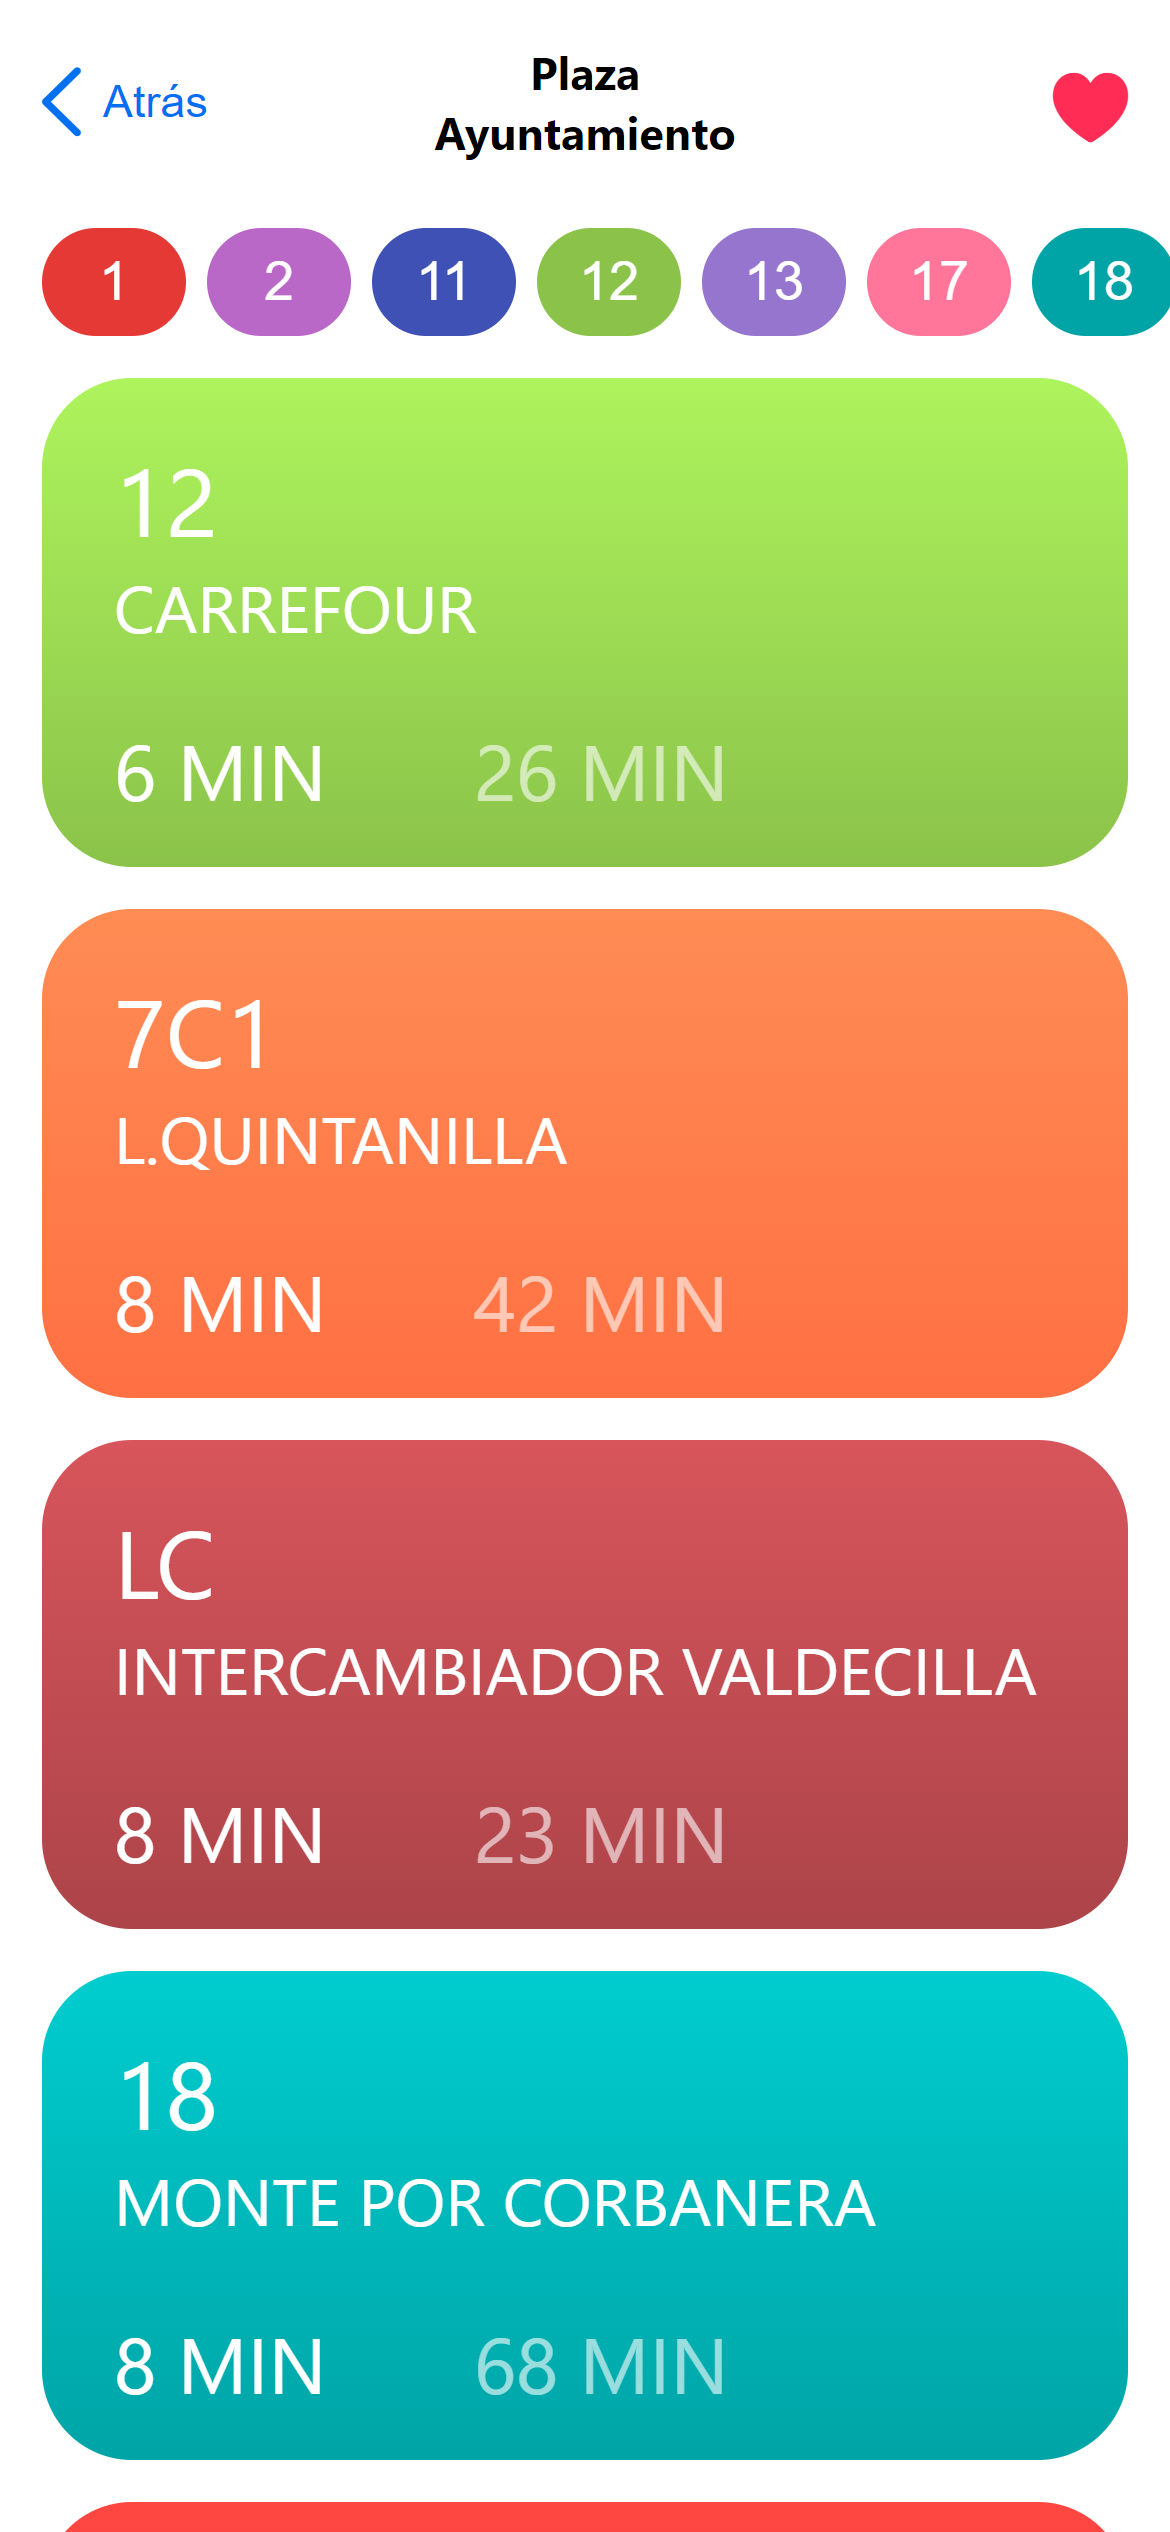
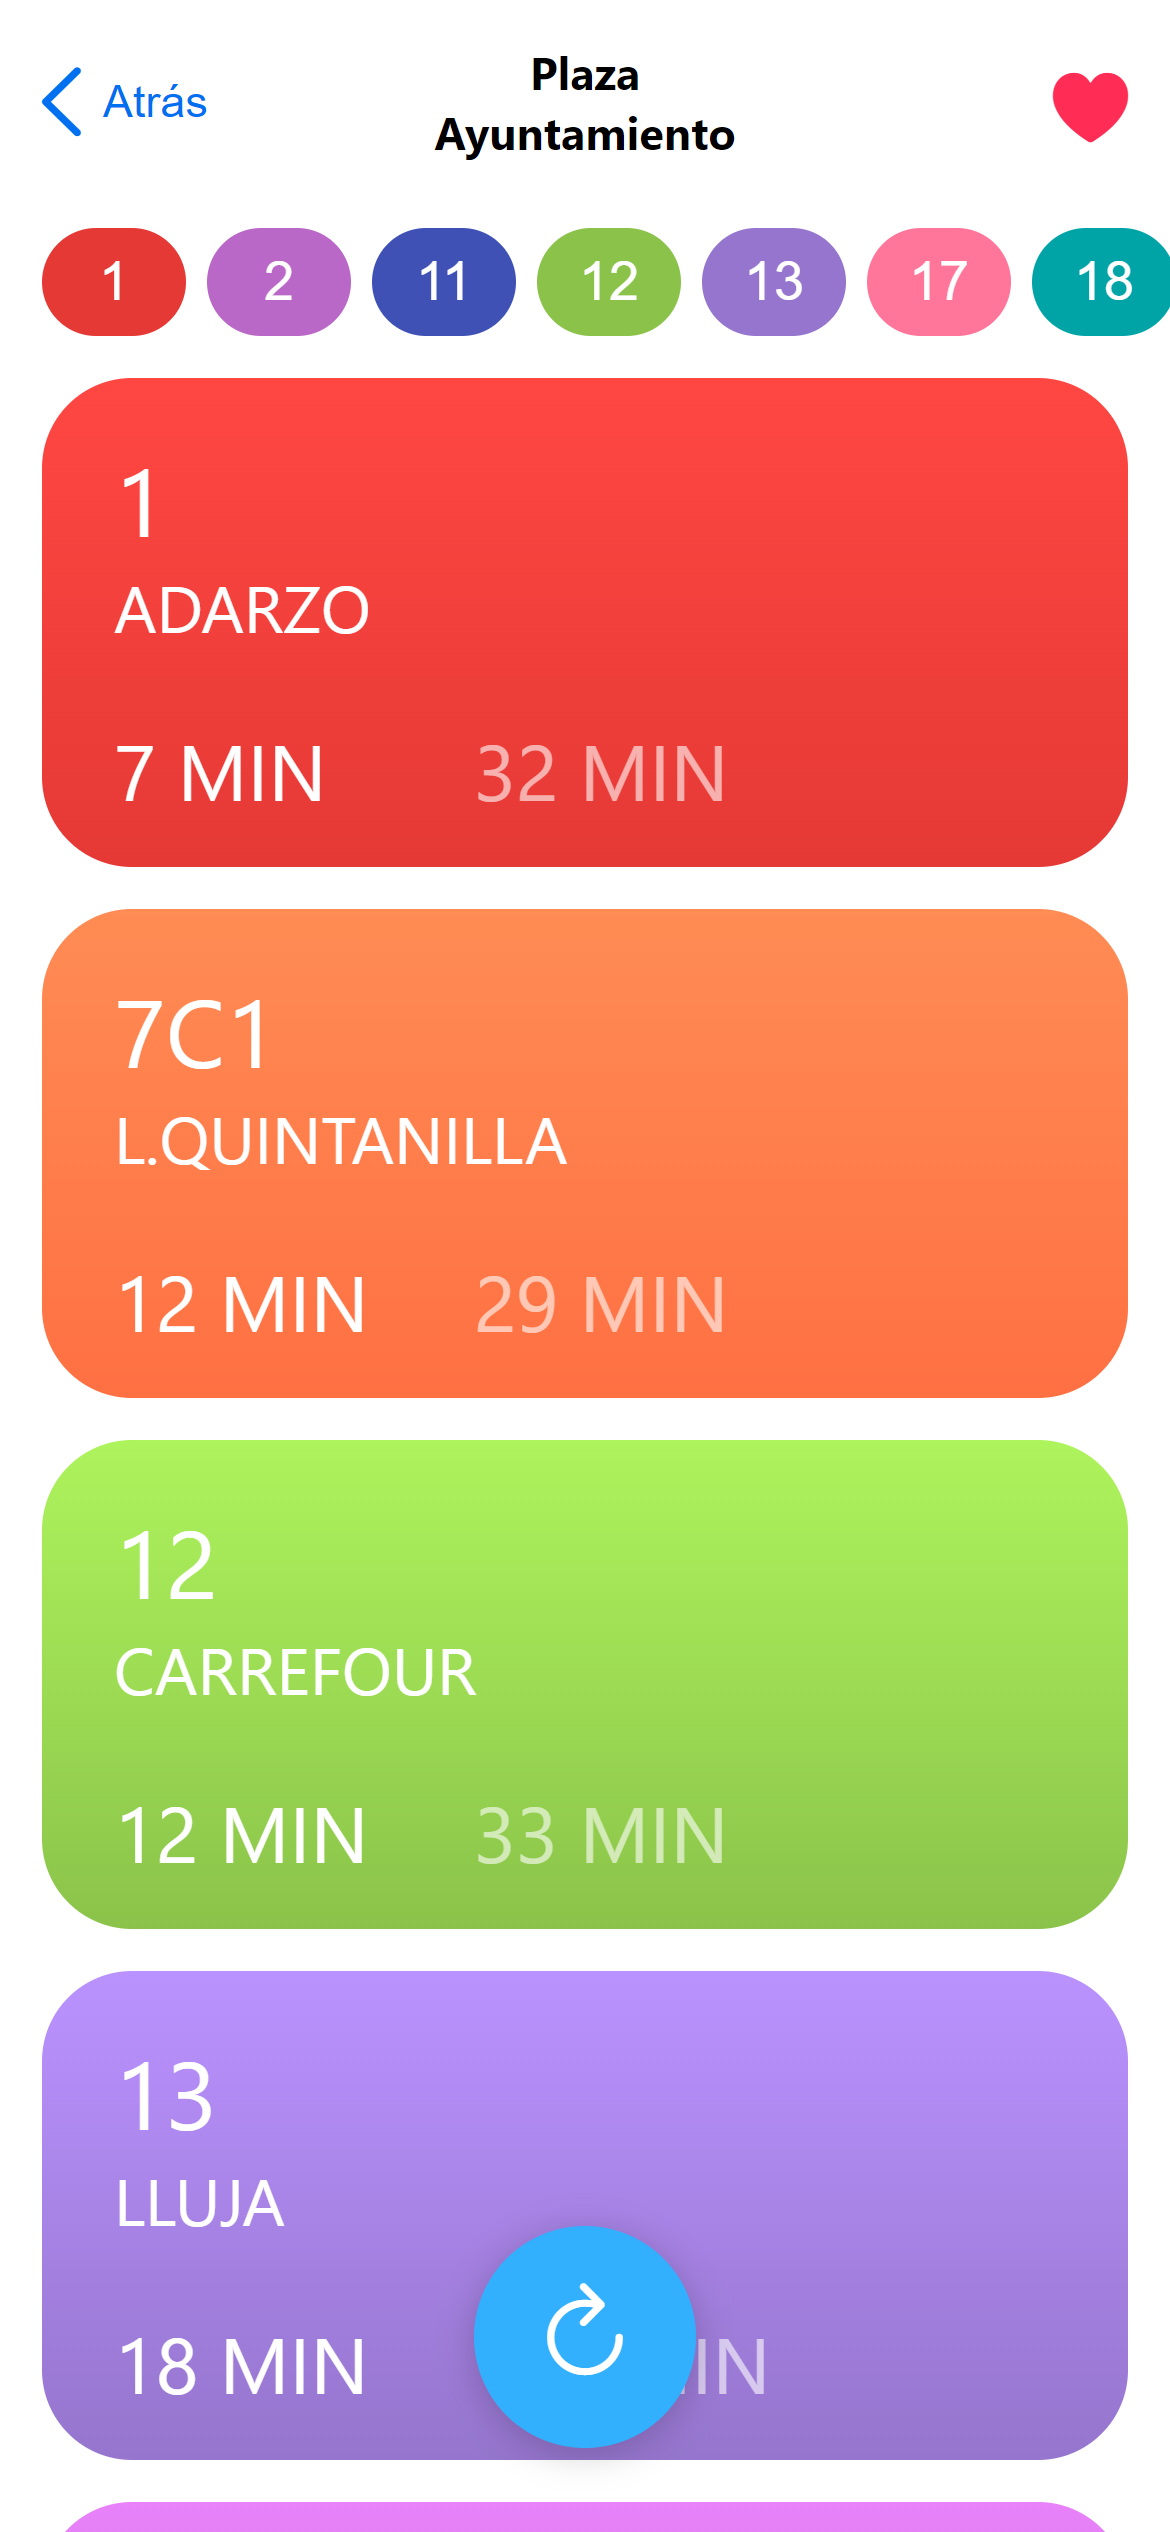
Improve FAB background color (#260)
* Improve FAB background color

* Update screenshot-eta1.png

* Update screenshot-eta1.png

* fix text position

* fix text position

* Update RefreshIcon.js

* Update RefreshIcon.js

diff --git a/src/components/RefreshIcon.js b/src/components/RefreshIcon.js
@@ -4,7 +4,7 @@ const RefreshIconStyled = styled.button`
   font-family: icons;
   font-size: 34px;
   color: #fff;
-  background: var(--color-blue);
+  background: var(--color-light-blue);
   box-shadow: 0 2px 12px rgba(0, 0, 0, 0.2);
   position: fixed;
   border-radius: 100%;
@@ -18,7 +18,7 @@ const RefreshIconStyled = styled.button`
 
   & span {
     position: relative;
-    top: -1px;
+    top: -0.4px;
   }
 `;
 

diff --git a/src/components/Error.js b/src/components/Error.js
@@ -21,7 +21,7 @@ const Error = (props) => {
   return (
     <ErrorStyled>
       <TextStyled>{props.errorText}</TextStyled>
-      <Button color="var(--color-blue)" onClick={props.retryAction}>
+      <Button color="var(--color-light-blue)" onClick={props.retryAction}>
         {props.retryText}
       </Button>
     </ErrorStyled>

diff --git a/src/index.css b/src/index.css
@@ -1,5 +1,6 @@
 :root {
   --color-blue: #0070f0;
+  --color-light-blue: #32b0fd;
 }
 
 body,
